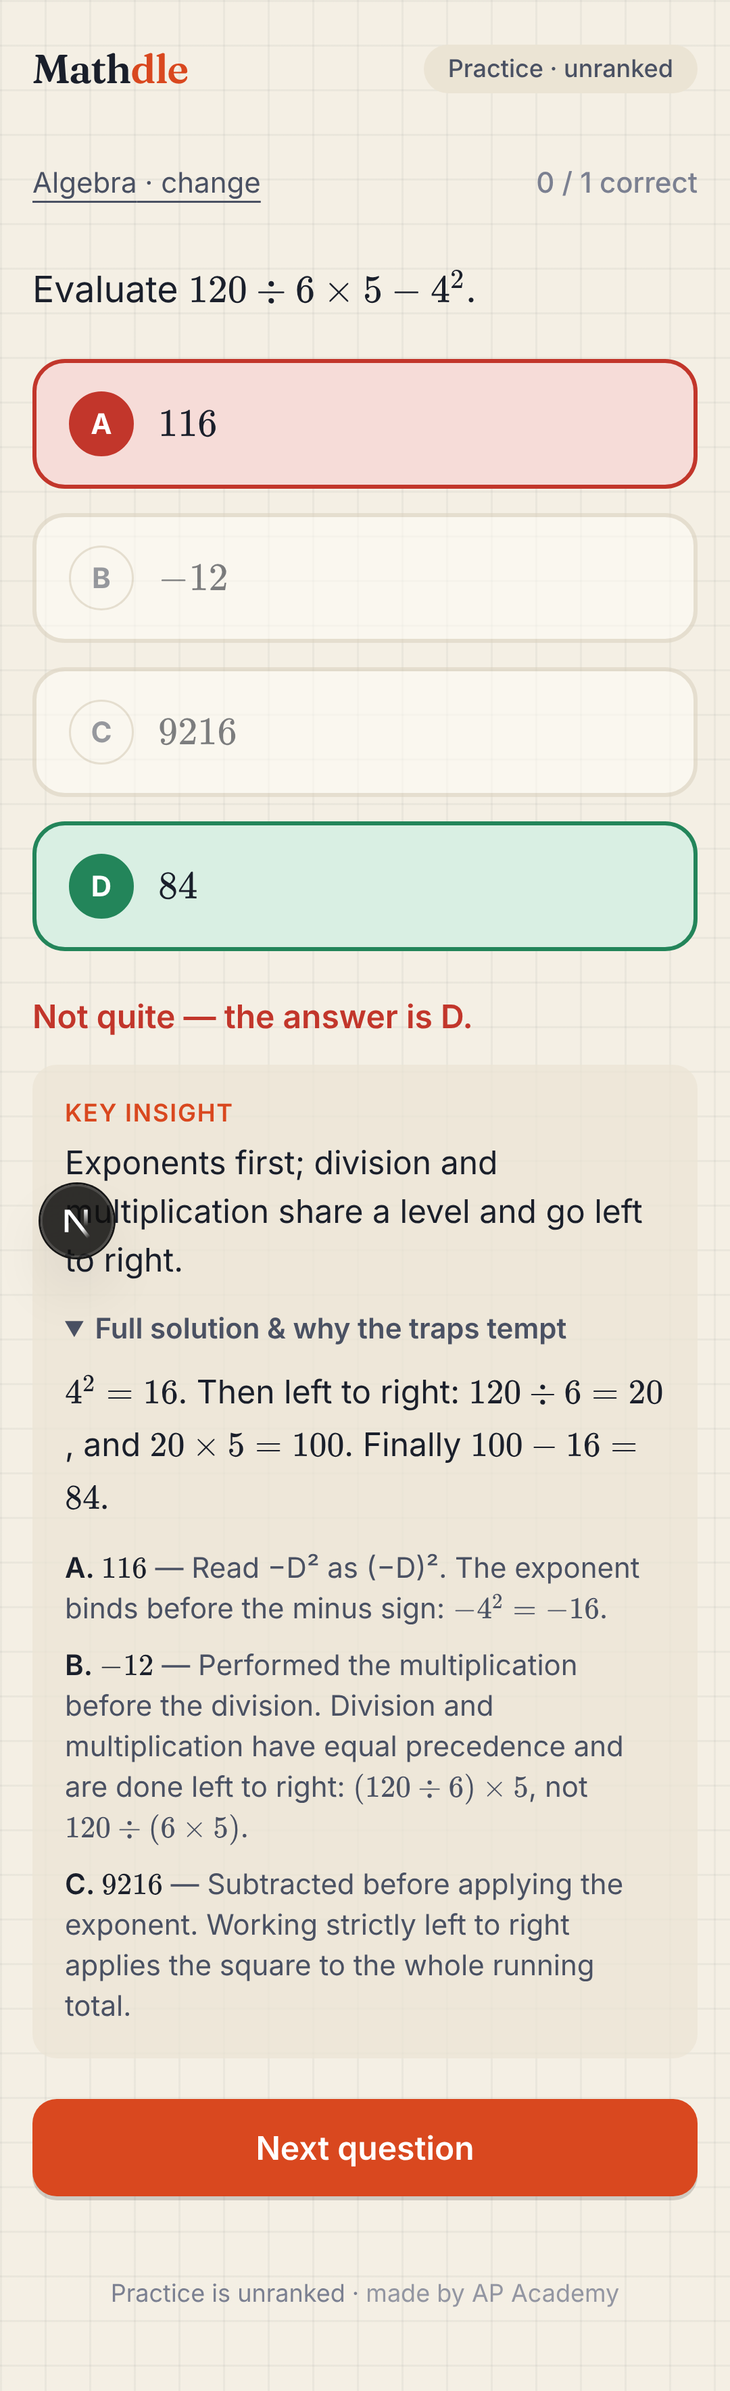
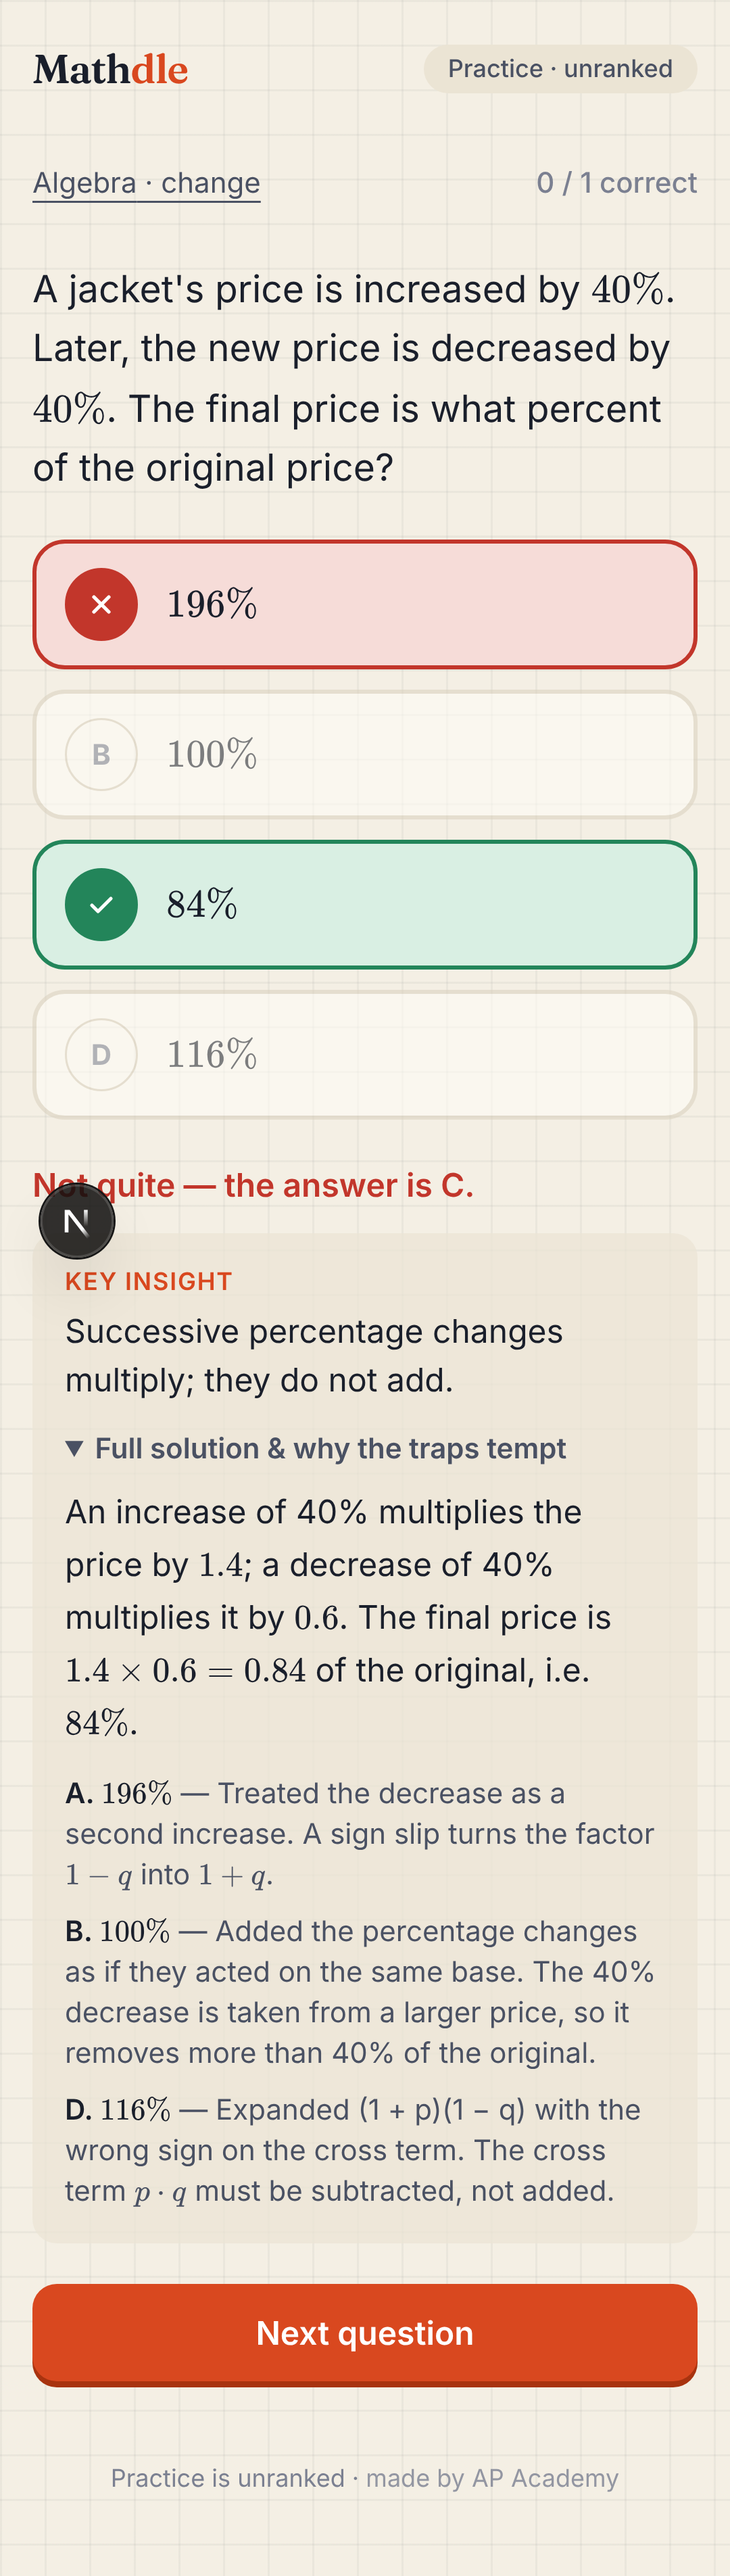
test(practice-mode): rate-limit 429s per limiter and a real cross-player session check
Centralise the practice limits in enforcePracticeLimit (start: 30/min per IP
key; next+answer: 60/min per player) so the limits and keys are tested
directly, and assert every route applies its limiter before doing work.
The e2e foreign-session case now uses player A's real session from player B.

Claude-Session: https://claude.ai/code/session_019yXmWg3xVe68aU4PzVC6h2

diff --git a/tests/e2e/practice.spec.ts b/tests/e2e/practice.spec.ts
@@ -72,7 +72,27 @@ test.describe("practice mode on a phone", () => {
     await expect(page.getByTestId("topic")).toHaveValue("2");
   });
 
-  test("API rejects cross-origin posts and foreign sessions (AC6, AC7)", async ({ page, context }) => {
+  test("another player's real session is invisible: 404 on next and answer (AC6)", async ({ browser, baseURL }) => {
+    const headers = { Origin: baseURL! };
+    const a = await browser.newContext();
+    const b = await browser.newContext();
+    // Each context's request client carries that context's own player cookie.
+    const started = await a.request.post("/api/practice/start", { headers, data: { slot: 2 } });
+    expect(started.status()).toBe(200);
+    const { session, question } = await started.json();
+    expect((await b.request.post("/api/practice/start", { headers, data: { slot: 1 } })).status()).toBe(200);
+    const body = { sessionId: session.id, attemptId: question.attemptId, optionId: question.options[0].id };
+    const next = await b.request.post("/api/practice/next", { headers, data: { sessionId: session.id } });
+    const answer = await b.request.post("/api/practice/answer", { headers, data: body });
+    expect([next.status(), answer.status()]).toEqual([404, 404]);
+    expect(await answer.text()).not.toContain("solution");
+    // A's attempt was not consumed by B: A can still answer it.
+    expect((await a.request.post("/api/practice/answer", { headers, data: body })).status()).toBe(200);
+    await a.close();
+    await b.close();
+  });
+
+  test("API rejects cross-origin posts and nonexistent sessions (AC6, AC7)", async ({ page, context }) => {
     await page.goto("/practice");
     const cross = await context.request.post("/api/practice/start", { headers: { Origin: "https://evil.example" }, data: { slot: 1 } });
     expect(cross.status()).toBe(403);
@@ -82,12 +102,12 @@ test.describe("practice mode on a phone", () => {
       const start = await post("/api/practice/start", { slot: 2 });
       const q = start.b.question;
       const bogus = await post("/api/practice/answer", { sessionId: start.b.session.id, attemptId: q.attemptId, optionId: "00000000-0000-4000-8000-000000000000" });
-      const foreign = await post("/api/practice/next", { sessionId: "00000000-0000-4000-8000-000000000000" });
+      const missing = await post("/api/practice/next", { sessionId: "00000000-0000-4000-8000-000000000000" });
       const ok = await post("/api/practice/answer", { sessionId: start.b.session.id, attemptId: q.attemptId, optionId: q.options[0].id });
       const twice = await post("/api/practice/answer", { sessionId: start.b.session.id, attemptId: q.attemptId, optionId: q.options[1].id });
-      return { bogus: bogus.s, foreign: foreign.s, ok: ok.s, revealed: typeof ok.b.solution === "string", twice: twice.s };
+      return { bogus: bogus.s, missing: missing.s, ok: ok.s, revealed: typeof ok.b.solution === "string", twice: twice.s };
     });
-    expect(r).toEqual({ bogus: 400, foreign: 404, ok: 200, revealed: true, twice: 409 });
+    expect(r).toEqual({ bogus: 400, missing: 404, ok: 200, revealed: true, twice: 409 });
   });
 
   test("360px phone: no horizontal overflow (AC8)", async ({ browser }) => {

diff --git a/tests/integration/practice.test.ts b/tests/integration/practice.test.ts
@@ -238,3 +238,32 @@ describe("default slot (AC1)", () => {
     expect(s.question?.slot).toBe(2);
   });
 });
+
+describe("rate limits (AC7)", () => {
+  it("start allows 30/min per IP key and play allows 60/min per player, then 429", async () => {
+    const { PRACTICE_LIMITS, enforcePracticeLimit } = await import("@/lib/game/practice");
+    expect(PRACTICE_LIMITS.start).toMatchObject({ prefix: "practice-start", limit: 30, windowSeconds: 60 });
+    expect(PRACTICE_LIMITS.play).toMatchObject({ prefix: "practice", limit: 60, windowSeconds: 60 });
+    // Pin the start of a fresh 60 s window so the loop cannot straddle two windows.
+    const msLeft = 60_000 - (Date.now() % 60_000);
+    if (msLeft < 5_000) await new Promise((r) => setTimeout(r, msLeft + 50));
+    for (const [kind, n] of [["start", 30], ["play", 60]] as const) {
+      const subject = `rl-${kind}-${Math.random()}`;
+      for (let i = 0; i < n; i++) await enforcePracticeLimit(kind, subject);
+      await expect(enforcePracticeLimit(kind, subject)).rejects.toMatchObject({ status: 429, code: "rate_limited" });
+      // Another subject has its own budget.
+      await expect(enforcePracticeLimit(kind, `${subject}-other`)).resolves.toBeUndefined();
+    }
+  });
+
+  it("every practice route applies its limiter before doing any work", async () => {
+    const { readFileSync } = await import("node:fs");
+    const expected = { start: `enforcePracticeLimit("start", ipKey(req))`, next: `enforcePracticeLimit("play", player.id)`, answer: `enforcePracticeLimit("play", player.id)` };
+    for (const [name, call] of Object.entries(expected)) {
+      const src = readFileSync(`src/app/api/practice/${name}/route.ts`, "utf8");
+      expect(src, name).toContain(`await ${call};`);
+      const work = /startPractice\(|nextPracticeQuestion\(|answerPractice\(|getOrCreatePlayer\(/.exec(src.slice(src.indexOf("export const POST")))!;
+      expect(src.indexOf(call), `${name}: limiter runs before ${work[0]}`).toBeLessThan(src.indexOf("export const POST") + work.index);
+    }
+  });
+});

diff --git a/src/app/api/practice/start/route.ts b/src/app/api/practice/start/route.ts
@@ -1,16 +1,15 @@
 import { z } from "zod";
 import { assertSameOrigin, ipKey, json, readJson, route } from "@/lib/http";
-import { enforceRateLimit } from "@/lib/ratelimit";
 import { todayChallenge } from "@/lib/game/challenge";
 import { getOrCreatePlayer } from "@/lib/game/identity";
-import { startPractice } from "@/lib/game/practice";
+import { enforcePracticeLimit, startPractice } from "@/lib/game/practice";
 
 // slot: 1–8 for one topic, null for any topic, omitted for "where today's run ended".
 const Body = z.object({ slot: z.number().int().min(1).max(8).nullable().optional() });
 
 export const POST = route(async (req: Request) => {
   assertSameOrigin(req);
-  await enforceRateLimit(`practice-start:${ipKey(req)}`, 30, 60);
+  await enforcePracticeLimit("start", ipKey(req));
   const body = Body.parse(await readJson(req));
   const player = await getOrCreatePlayer(ipKey(req));
   const challengeId = body.slot === undefined ? ((await todayChallenge()).challenge?.id ?? null) : null;

diff --git a/src/lib/game/practice.ts b/src/lib/game/practice.ts
@@ -14,8 +14,21 @@
  */
 import { sql, type Tx } from "@/lib/db";
 import { HttpError } from "@/lib/http";
+import { enforceRateLimit } from "@/lib/ratelimit";
 import { torontoDate } from "@/lib/time";
 import type { DiagramSpecT } from "@/lib/schemas/question";
+
+/** Per-window limits for the practice API (requests per 60 s), like the game APIs. */
+export const PRACTICE_LIMITS = {
+  start: { prefix: "practice-start", limit: 30, windowSeconds: 60 }, // keyed by IP hash: it can create players
+  play: { prefix: "practice", limit: 60, windowSeconds: 60 }, // keyed by player: next + answer share one budget
+} as const;
+
+/** Throws HttpError 429 when `subject` (IP key or player id) exceeds the limit for `kind`. */
+export async function enforcePracticeLimit(kind: keyof typeof PRACTICE_LIMITS, subject: string) {
+  const l = PRACTICE_LIMITS[kind];
+  await enforceRateLimit(`${l.prefix}:${subject}`, l.limit, l.windowSeconds);
+}
 
 export interface PracticeQuestion {
   attemptId: string;

diff --git a/src/app/api/practice/answer/route.ts b/src/app/api/practice/answer/route.ts
@@ -1,8 +1,7 @@
 import { z } from "zod";
 import { HttpError, assertSameOrigin, json, readJson, route } from "@/lib/http";
-import { enforceRateLimit } from "@/lib/ratelimit";
 import { currentPlayer } from "@/lib/game/identity";
-import { answerPractice } from "@/lib/game/practice";
+import { answerPractice, enforcePracticeLimit } from "@/lib/game/practice";
 
 const Body = z.object({ sessionId: z.uuid(), attemptId: z.uuid(), optionId: z.uuid() });
 
@@ -11,6 +10,6 @@ export const POST = route(async (req: Request) => {
   const body = Body.parse(await readJson(req));
   const player = await currentPlayer();
   if (!player) throw new HttpError(404, "practice question not found", "no_attempt");
-  await enforceRateLimit(`practice:${player.id}`, 60, 60);
+  await enforcePracticeLimit("play", player.id);
   return json(await answerPractice(player.id, body));
 });

diff --git a/src/app/api/practice/next/route.ts b/src/app/api/practice/next/route.ts
@@ -1,8 +1,7 @@
 import { z } from "zod";
 import { HttpError, assertSameOrigin, json, readJson, route } from "@/lib/http";
-import { enforceRateLimit } from "@/lib/ratelimit";
 import { currentPlayer } from "@/lib/game/identity";
-import { nextPracticeQuestion } from "@/lib/game/practice";
+import { enforcePracticeLimit, nextPracticeQuestion } from "@/lib/game/practice";
 
 const Body = z.object({ sessionId: z.uuid() });
 
@@ -11,6 +10,6 @@ export const POST = route(async (req: Request) => {
   const body = Body.parse(await readJson(req));
   const player = await currentPlayer();
   if (!player) throw new HttpError(404, "practice session not found", "no_session");
-  await enforceRateLimit(`practice:${player.id}`, 60, 60);
+  await enforcePracticeLimit("play", player.id);
   return json(await nextPracticeQuestion(player.id, body.sessionId));
 });
